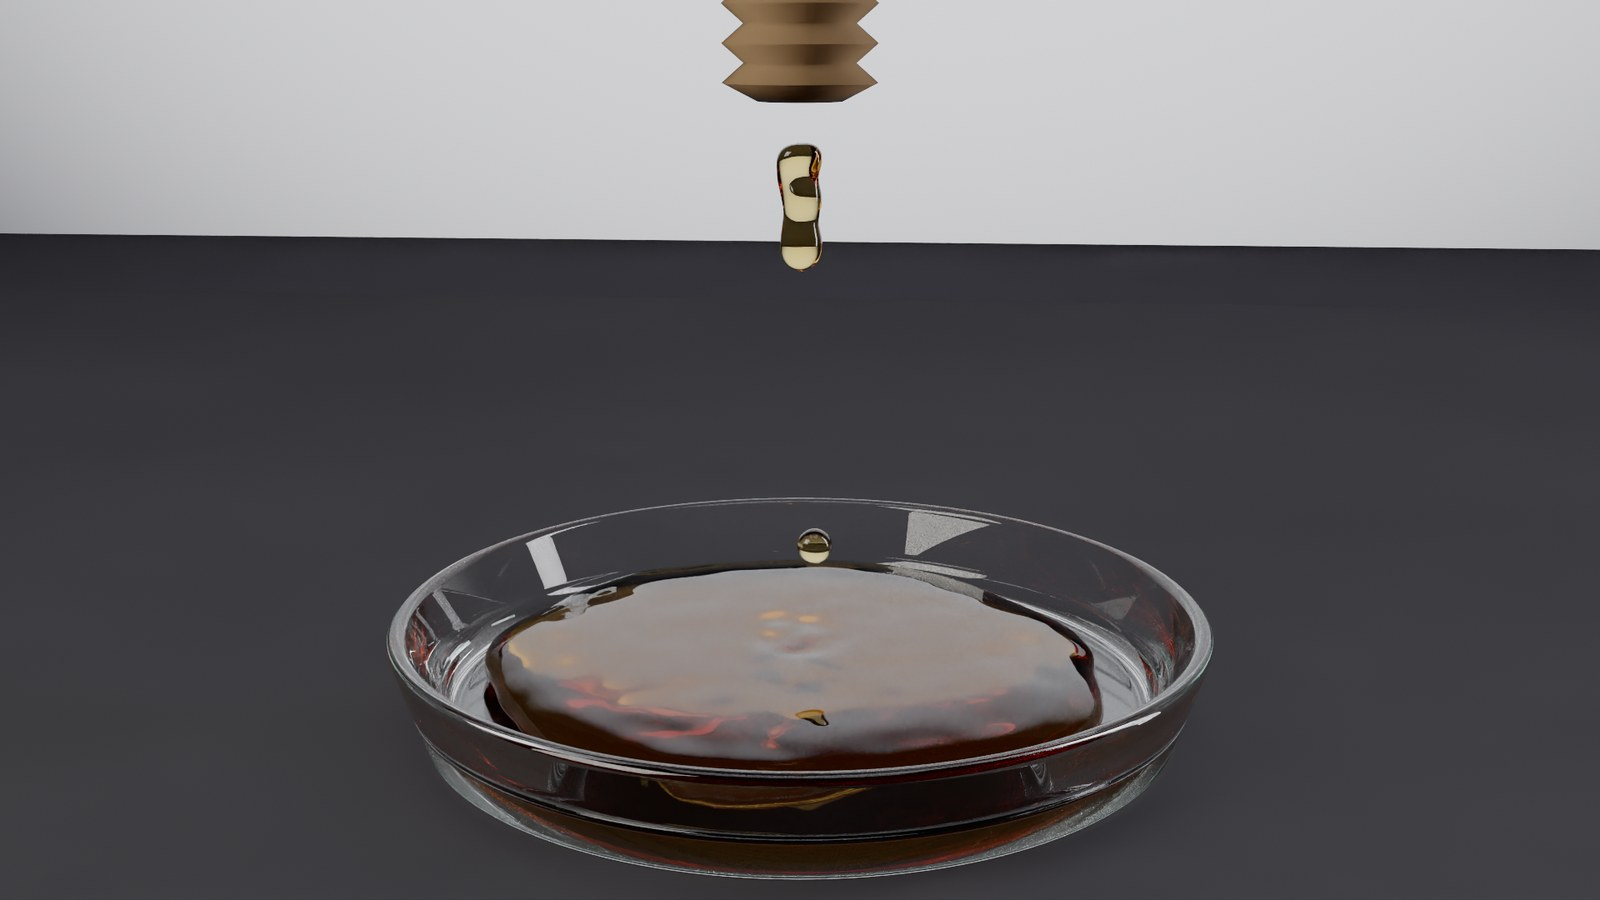
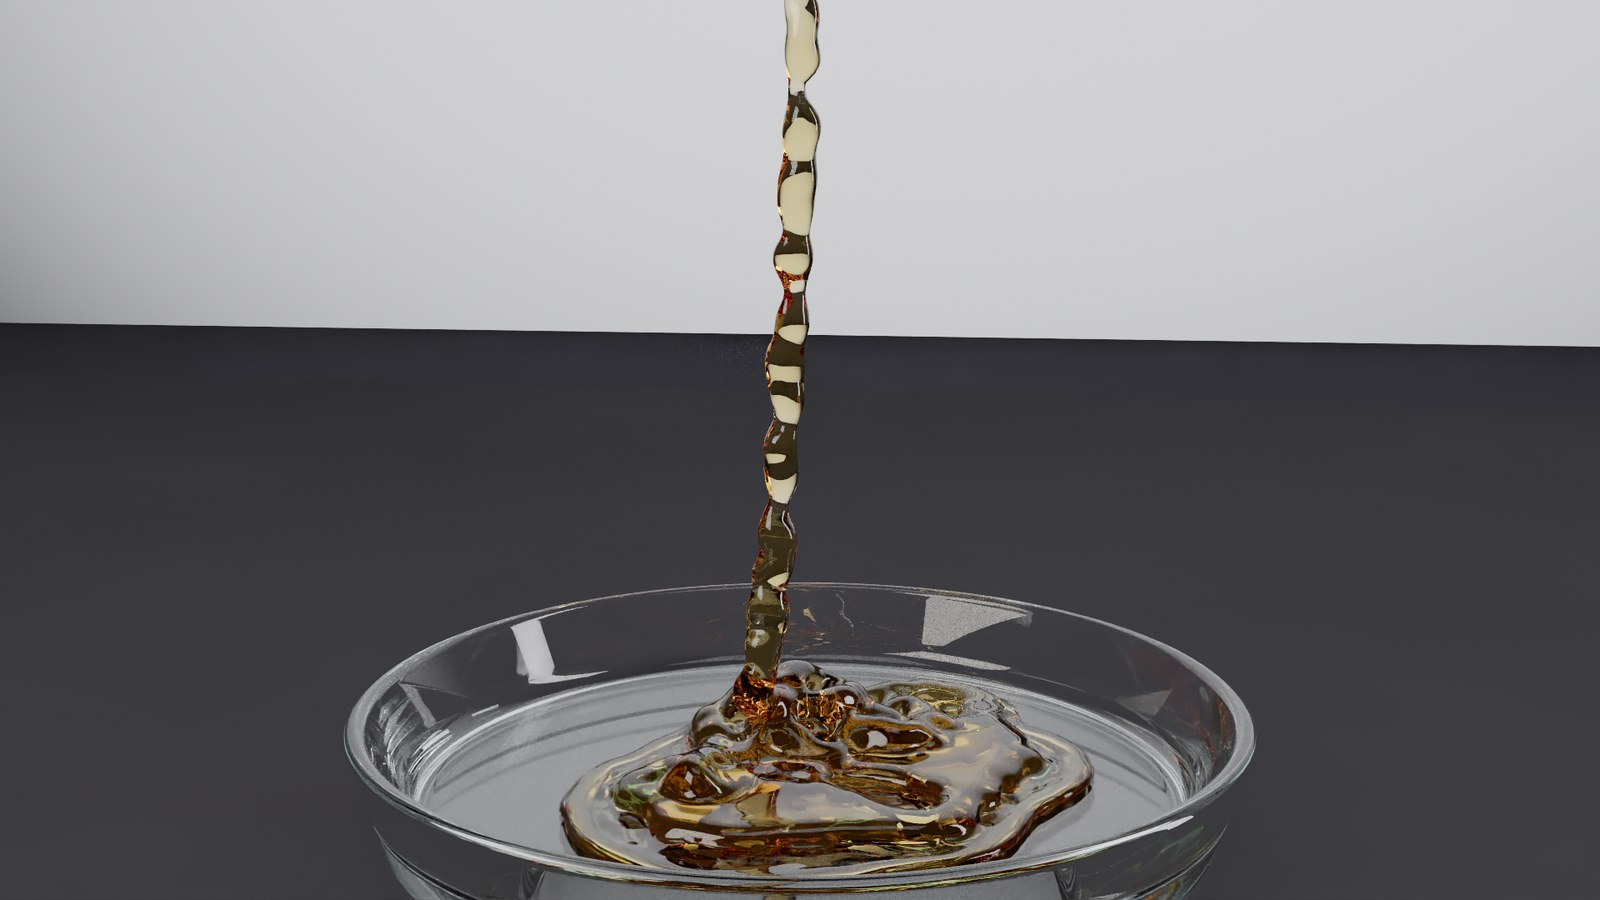
Laboratuvar: bal ipi viskoelastik yaylarla (Clavet 2005): kesintisiz ip, tabakta kıvrılma, göle dönüş
Claude-Session: https://claude.ai/code/session_019QWGCRivWaUYQu6sQFo1ko

Changed region(s): [[0.0, 0.0, 1.0, 1.0], [0.2188, 0.9333, 0.25, 0.9644]]

diff --git a/src/scenes/laboratuvar/particles.h b/src/scenes/laboratuvar/particles.h
@@ -51,6 +51,12 @@ struct PParams {
     // and repeated: each pass carries the velocity a kernel further (a Jacobi solve towards implicit viscosity)
     bool xsphShepard = false;
     int viscPasses = 1;
+    // viscoelastic springs (Clavet et al. 2005, the Maxwell kind): added while running between particles (a honey
+    // thread's layers), pulled to their rest length with this stiffness a pass (0..1, Jacobi), the rest length
+    // creeping towards the current one over springRelax seconds (it flows instead of bouncing), gone past
+    // springBreak strain
+    float springStiff = 0.5f, springRelax = 0.2f, springBreak = 2.0f;
+    float springLife = 0.0f;     // s: a spring lets go this long after it was made (the pile merges and flows; 0: never)
     float cohesion = 0.0f;       // Akinci et al. 2013 cohesion, m/s^2 at its peak (0: off)
     float tension = 0.0f;        // and its curvature term (surface tension proper), m/s^2 per unit of normal difference
     float adhesion = 0.0f;       // fluid to solid particles (wetting: blood runs down the skin), m/s^2 at its peak (0: off)
@@ -131,6 +137,10 @@ public:
     // below hangs on to them, as honey hangs on a dipper (free from the start, a thin stream falls apart into drops)
     int appendHeld(const std::vector<float3>& pos, const std::vector<float3>& vel, float density, int grainGroup);   // 0: fluid
     void release(int first, int count, float density);   // held ones let go: their mass back
+    // viscoelastic springs between particle pairs (rest length: their distance now); returns how many fitted
+    int addSprings(const std::vector<int2>& pairs);
+    int springCount() const { return dsCount_; }
+    void reserveSprings(int n) { dsReserve_ = n; }   // before commit
     void placeGroup(int group, float3 offset, float3 velocity);   // a rigid group: its rest shape moved by offset, moving
     int breakBondsInSphere(float3 c, float r);  // every bond with an end inside: broken (a shot, for the tests); returns how many
     // ---- driven from outside (the body: bone particles follow the skeleton; shots and blasts push)
@@ -244,5 +254,13 @@ private:
     int graphN_ = -1;
     PParams graphP_{};
     float* gSub_ = nullptr;        // gravity per substep (device; the graph reads it)
+    // viscoelastic springs: their ends, rest lengths, alive; the count on the device too (the graph reads it there)
+    int2* dsEnds_ = nullptr;
+    float* dsRest_ = nullptr;
+    float* dsAge_ = nullptr;
+    uint8_t* dsAlive_ = nullptr;
+    int* dsCountDev_ = nullptr;
+    float4* dsAcc_ = nullptr;      // per particle: summed corrections (xyz) and their count (w)
+    int dsCount_ = 0, dsCap_ = 0, dsReserve_ = 0;
     void freeAll();
 };

diff --git a/src/scenes/laboratuvar/lab_world.cpp b/src/scenes/laboratuvar/lab_world.cpp
@@ -138,6 +138,8 @@ bool LabWorld::build(Deney d, const Config& sceneCfg, bool fine_, const LabInput
     emitCarry_ = 0.0;
     emitSeed_ = 1;
     heldLayers_.clear();
+    lastLayerPos_.clear();
+    lastLayerFirst_ = -1;
     triggered_ = false;
     ev_ = LabEvent{};
     switch (d) {
@@ -149,6 +151,7 @@ bool LabWorld::build(Deney d, const Config& sceneCfg, bool fine_, const LabInput
     case Deney::Jel: buildJel(); break;
     }
     pw.reserve(int(code.size()) + cfg.i(pre + "ek_kapasite", 0));
+    if (d == Deney::Bal && cfg.i("bal.yaylar", 1)) pw.reserveSprings(cfg.i("bal.yay_kapasite", 1200000));
     pw.commit();
     t0_ = pw.time();
     placeProps();
@@ -714,6 +717,30 @@ void LabWorld::emit(float dt) {
     const int first = pw.count();
     const int added = pw.appendHeld(pos, vel, density, honey ? 0 : sandGroup_);
     if (added > 0) heldLayers_.push_back({first, added, now});
+    if (honey && added > 0 && pw.springCount() >= 0 && cfg.i("bal.yaylar", 1)) {
+        // springs: every new particle to its neighbours within 1.6 spacings, among the new ones and the layer before
+        // (the thread's lattice: it stretches and flows, it does not fall apart into drops)
+        std::vector<float3> cand = lastLayerPos_;
+        const int candFirst = lastLayerFirst_;
+        std::vector<int2> pairs;
+        const float reach = cfg.f("bal.yay_uzaklik", 1.6f) * s;
+        for (int i = 0; i < added; ++i) {
+            for (int j = i + 1; j < added; ++j)
+                if (length(pos[size_t(i)] - pos[size_t(j)]) < reach) pairs.push_back(make_int2(first + i, first + j));
+            if (candFirst >= 0)
+                for (size_t j = 0; j < cand.size(); ++j)
+                    if (length(pos[size_t(i)] - (cand[j] + make_float3(0, -v0 * float(1.0 / rate), 0))) < reach * 1.2f) pairs.push_back(make_int2(first + i, candFirst + int(j)));
+        }
+        pw.addSprings(pairs);
+        lastLayerPos_.assign(pos.end() - added, pos.end());
+        lastLayerFirst_ = first + added - int(lastLayerPos_.size());
+        // only the newest layer's particles: they are the last of pos
+        const int perLayer = int(std::max<size_t>(1, d0.size()));
+        if (int(lastLayerPos_.size()) > perLayer) {
+            lastLayerPos_.erase(lastLayerPos_.begin(), lastLayerPos_.end() - perLayer);
+            lastLayerFirst_ = first + added - perLayer;
+        }
+    }
     code.insert(code.end(), size_t(added), honey ? DC_HONEY : DC_SAND);
 }
 

diff --git a/src/scenes/laboratuvar/solver_tests.cpp b/src/scenes/laboratuvar/solver_tests.cpp
@@ -47,6 +47,10 @@ void applyPhysics(ParticleWorld& w, const Config& c) {
     p.tearTip = c.f("fizik.yirtilma_ucu", p.tearTip);
     p.grainShare = c.f("fizik.tane_pay", p.grainShare);
     p.grainRest = c.f("fizik.tane_durgun", p.grainRest);
+    p.springStiff = c.f("fizik.yay_sertlik", p.springStiff);
+    p.springRelax = c.f("fizik.yay_gevseme", p.springRelax);
+    p.springBreak = c.f("fizik.yay_kopma", p.springBreak);
+    p.springLife = c.f("fizik.yay_omur", p.springLife);
     p.xsphShepard = c.i("fizik.xsph_shepard", p.xsphShepard ? 1 : 0) != 0;
     p.viscPasses = c.i("fizik.viskozite_gecis", p.viscPasses);
     p.bleedFade = c.f("yara.pihtilasma", p.bleedFade);

diff --git a/src/scenes/laboratuvar/lab_world.h b/src/scenes/laboratuvar/lab_world.h
@@ -118,6 +118,8 @@ private:
         double born;
     };
     std::vector<HeldLayer> heldLayers_;   // the stream's newest layers, still in the nozzle
+    std::vector<float3> lastLayerPos_;    // honey: the last layer emitted, where it was born (springs to the next)
+    int lastLayerFirst_ = -1;
     unsigned emitSeed_ = 1;
     int sandGroup_ = 0;
     void emit(float dt);

diff --git a/docs/laboratuvar/DURUM.md b/docs/laboratuvar/DURUM.md
@@ -12,7 +12,7 @@
 | Deney | Kip | Ne oluyor | Durum |
 |---|---|---|---|
 | Su | kayıt | beher eğilip bardağa döküyor; yükseklik 12-45 cm; sıçrar, taşar, masada birikir | ince kayıt 1,5 mm, 98.670 su taneciği, saniyenin 1/600'ü; akış düzgün cam bir şerit |
-| Bal | canlı | kaşıktan cam tabağa; fareyle gezdir, akış ve yükseklik çubuğu | tabakta kehribar, pürüzsüz, yavaş yayılan gölet; **ip yerine iri damlalar** (aşağıda) |
+| Bal | canlı | kaşıktan cam tabağa; fareyle gezdir, akış ve yükseklik çubuğu | kesintisiz kehribar ip, tabakta kıvrılarak yığılır, yığın birkaç saniyede göle döner |
 | Kum | canlı | huniden masaya ve behere; fareyle gezdir; çelik bilye | yığılma açısı **32,5°** (ölçüt 30-35°); tane dokusu |
 | Su balonu | kayıt | masadaki balona iğne (tıkla ya da Boşluk) | 10 ms'de delik, 20-30 ms'de lastik soyulurken su balon biçiminde, sonra çöker |
 | Karpuz | kayıt | tüfekle (5,56 → 7,62×51 → .50 BMG, gerçek yükler) | ~600 J birikir; birkaç ms şişer, kabuk taç gibi açılır; parça görüntüsü yumuşak |
@@ -57,9 +57,12 @@ Oynatma yalnız çizimdir (fizik yok), anlar arası doğrusal ara doldurma. Vide
   kendiliğinden patlatıyordu.
 - **Su dökmede biraz viskozite + yapışma + yüzey gerilimi** (XSPH 0,05, Akinci 20, gerilim 3): olmadan akış behere
   yakın yerde bile erişte gibi kopuyordu; dört varyant kareyle kıyaslandı (`02 su dokme ayar denemeleri`).
-- **Bal: Shepard XSPH + 12 geçiş, tutulan meme:** düz XSPH ince ipte (az komşu) neredeyse etkisiz, bal yağ gibi
-  yayıldı; memeden boşluğa bırakılan katmanlar ilk anda ayrılıyordu → yeni katmanlar memede sabit hızla itilir,
-  çıkınca serbest kalır.
+- **Bal: Shepard XSPH + 12 geçiş, tutulan meme, viskoelastik yaylar:** düz XSPH ince ipte (az komşu) neredeyse
+  etkisiz, bal yağ gibi yayıldı; memeden boşluğa bırakılan katmanlar ilk anda ayrılıyordu → yeni katmanlar memede
+  sabit hızla itilir, çıkınca serbest kalır. Yine de ip ya katmanlara ayrıldı (yapışmasız) ya Rayleigh-Plateau
+  damlalarına bölündü (yapışmalı): PBF'te gerilmeye direnen viskoz gerilim yok. Çözüm Clavet 2005'in viskoelastik
+  yayları: her yeni katman öncekine 1,6 aralıkta yaylarla bağlanır, yayın dinlenme boyu 1 sn'de uzunluğunu izler
+  (akar, incelir, kopmaz), 2,5 sn sonra yay kalkar (kıvrımlar birleşip göle döner).
 - **Kum: hız düzeyinde durgun sürtünme** (granüler PBD'de bilinen "uyku" eşiği). Konumsal sürtünme her alt adımda
   küçük kaymaları tamamen durduramıyor, yığın sürünüyordu.
 - **Karpuz kabuğu iki katman** (yeşil dış deri ≥ 2 tanecik, açık yeşil iç kabuk), bağ dayanımına log-normal kusur
@@ -77,9 +80,8 @@ Oynatma yalnız çizimdir (fizik yok), anlar arası doğrusal ara doldurma. Vide
   sıçrayıp döndü (aşağı giden akış masaya çarpıp geri dönüyor), 0,3'e indirildi. Esnek enerjiyi depolayan bir boşluk
   modeli (basınçla açılıp kapanan) gerek. Yoldan kopan jel tanecikleri küre damla gibi görünüyor.
 
-- **Bal ipi:** kaşıktan sürekli ince ip yerine iri damlalar düşüyor (alçak kaşıkta yığına değen sütun). Damlalar ve
-  tabaktaki bal gerçekçi; ip kıvrılması (liquid rope coiling) yok. Sebep: PBF'te gerilmeye karşı koyan viskoz gerilim
-  yok (XSPH hız ortalaması). B planı uygulandı; asıl çözüm örtük viskozite (Weiler 2018) ya da bal için MPM.
+- **Bal ipi** yaylarla sürekli ve yığında kıvrılıyor, ama ipin yüzeyi boğumlu (1-3 tanecik kalınlığında kafes);
+  düzenli kıvrılma sıklığı (Ribe ölçeklemesi) ölçülmedi. Yaylar Jacobi ve kayan noktalı atomik: bal birebir tekrar etmez.
 - **Karpuz parçaları** yüzey yeniden kurulumuyla çiziliyor: kırık yüzey keskin değil, yumuşak "jöle" kenarlı; parçaların
   üstündeki şeritler dünya konumundan (parça dönünce kayar). Patlama 7,62'de fiziksel ama çok hızlı: ×1/100'de izlenmeli.
 - **Su balonu** yalnız masada; asılı balon (gerçek klasik kare) için zarın yük taşıması gerek (daha çok yineleme ya da

diff --git a/README.tr.md b/README.tr.md
@@ -137,7 +137,8 @@ klasik ışığı (cam ve sıvı kırılan kenarlarıyla okunur). Altı deney, h
 ne derse o:
 
 - **Su** eğilen bir beherden bardağa dökülür, 12 ile 45 cm arasından: sıçrar, taşar, masada birikir.
-- **Bal** kaşıktan cam tabağa (canlı, kaşığı fareyle gezdir): yığılır, yavaşça yayılır, kehribar.
+- **Bal** kaşıktan cam tabağa (canlı, kaşığı fareyle gezdir): tek kehribar ip, tabakta katlanıp kıvrılır, sonra göle
+  yayılır.
 - **Kum** huniden masaya ve behere (canlı): 32,5° ile yığılır (kuru kum 30-35°); çelik bilye bırakılabilir.
 - **Su balonu** masada, iğneyle delinir: lastik 20-30 ms'de geri soyulurken su bir an balon biçiminde kalır, sonra çöker.
 - **Karpuz** tüfekle vurulur (5,56, 7,62×51, .50 BMG; gerçek yükler): birkaç milisaniye şişer, sonra kabuğu taç gibi
@@ -177,7 +178,9 @@ Nasıl yapıldığı ve yolda neyin ölçüldüğü (çalışma günlüğünde h
   balonu tutan ayar ince balonu tutmadı: XPBD'nin sertliği çözünürlüğe bağlı); gerilimi oturma sırasında yavaşça
   verilir; yırtığın ucuna, kaba kafesin orada toplayamadığı gerilim verilir.
 - **Balın** viskozitesi her taneciğin kendi komşularına göre alınır (ince ip de gövde kadar koyu olur), alt adımda
-  tekrarlanır; bal en yeni katmanlarını tutan bir memeden çıkar. Tek ince ip yerine iri damlalarla akıyor (açık, aşağıda).
+  tekrarlanır; bal en yeni katmanlarını tutan bir memeden çıkar. Yine de ipi damlalara bölünüyordu (PBF'te gerilmeye
+  direnen gerilim yok); katmanları arasındaki viskoelastik yaylar (Clavet vd. 2005'ten, dinlenme boyu uzunluğu izler)
+  onu incelen, katlanan ve tabakta kıvrılan tek bir ip tutar, sonra bırakır: kıvrımlar birleşip göl olur.
 - **Karpuzun** kabuğu iki katman (yeşil deri, açık kabuk), yuvalı bir kaidede; bağlarında doğal kusurlar var (özdeş
   bağlar hep birden kırılıp kırıntı oluyordu); merminin yolu eski Tanecik sahnesinin jele kalibre balistiğinden.
 - **Görüntü:** OptiX ile yol izleme; kalınlıklı cam ve kırılan sıvılar tam Fresnel ile, bardaktaki su camla tek arayüzden
@@ -185,8 +188,7 @@ Nasıl yapıldığı ve yolda neyin ölçüldüğü (çalışma günlüğünde h
   çekirdekler); kum, tane ölçeğinde dokulu bir yüzey ve ince taneler; karede 4 örnek ve OptiX yapay zekâ gürültü
   gidericisi.
 
-Açık: bal kıvrılan ince bir ip yerine damlıyor (gerilmeye karşı koyan viskoz gerilim PBF'te yok; örtük viskozite ya da
-MPM sonraki adım); karpuz parçaları keskin kırık değil yumuşak yüzeyler olarak çiziliyor; balon asılı değil masada
+Açık: bal ipinin yüzeyi boğumlu (bir-üç tanecik kalınlığında); karpuz parçaları keskin kırık değil yumuşak yüzeyler olarak çiziliyor; balon asılı değil masada
 (asılıyken hafif lastik suyun ağırlığını düğüme zamanında taşıyamadı).
 
 ## Sahne 1: neyi hesaplıyor

diff --git a/README.md b/README.md
@@ -137,7 +137,8 @@ photography (glass and liquids read by their refracted edges). Six experiments, 
 our own, whatever the physics says:
 
 - **Water** poured from a tilting beaker into a tumbler, from 12 to 45 cm: it splashes, overflows, pools on the table.
-- **Honey** off a dipper onto a glass dish (live, drag the dipper with the mouse): it piles, spreads slowly, amber.
+- **Honey** off a dipper onto a glass dish (live, drag the dipper with the mouse): one amber thread that folds and
+  coils on the dish, then spreads into a pool.
 - **Sand** from a funnel onto the table and into a beaker (live): it heaps at 32.5° (dry sand: 30-35°); drop a steel ball.
 - **A water balloon** on the table, pricked with a needle: the rubber peels back in 20-30 ms while the water keeps the
   balloon's shape for a moment, then slumps.
@@ -180,8 +181,10 @@ How each is made, and what was measured on the way (the Turkish working journal 
   same settings that held a coarse balloon failed a fine one: XPBD's stiffness depends on resolution); its stretch is
   brought in slowly while it settles; a tear's tip is given the stress a coarse lattice cannot concentrate there.
 - **Honey's** viscosity is taken over each particle's own neighbours (a thin thread is then as thick as the bulk),
-  repeated a substep, and it leaves a nozzle that holds its newest layers. It drips in globs rather than one thin rope
-  (an open problem, see below).
+  repeated a substep, and it leaves a nozzle that holds its newest layers. Even so its thread fell apart into drops
+  (PBF has no stress that resists stretching); viscoelastic springs between its layers (after Clavet et al. 2005,
+  their rest length creeping after the length) keep it one thread that thins, folds and coils on the dish, then let
+  go so the coils merge into a pool.
 - **The melon's** rind is two layers (green skin, pale rind) on a cup-shaped stand; its bonds carry natural flaws
   (identical bonds all broke at once, into crumbs); the bullet's path comes from the gelatin-calibrated ballistics of
   the earlier Tanecik scene.
@@ -190,8 +193,7 @@ How each is made, and what was measured on the way (the Turkish working journal 
   the particles every frame (anisotropic kernels); sand drawn as a surface with grain-sized texture plus fine grains;
   4 samples a frame and the OptiX AI denoiser.
 
-Open: honey drips instead of a coiling thread (viscous stress that resists stretching is what PBF lacks; implicit
-viscosity or MPM would be the next step); melon fragments are drawn as soft rebuilt surfaces, not sharp fractures; the
+Open: the honey thread's surface is lumpy (it is one to three particles thick); melon fragments are drawn as soft rebuilt surfaces, not sharp fractures; the
 balloon rests on the table rather than hanging (hanging, the light rubber could not carry the water's weight to the
 knot in time).
 
